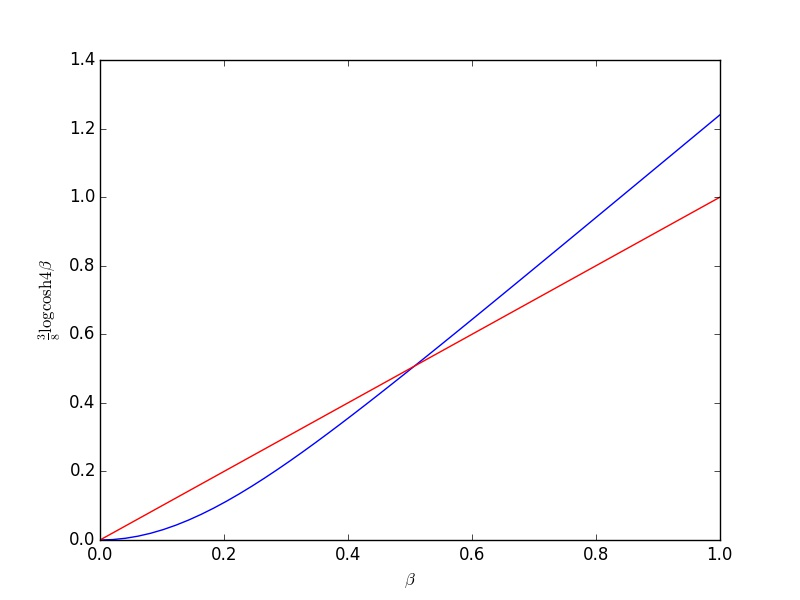
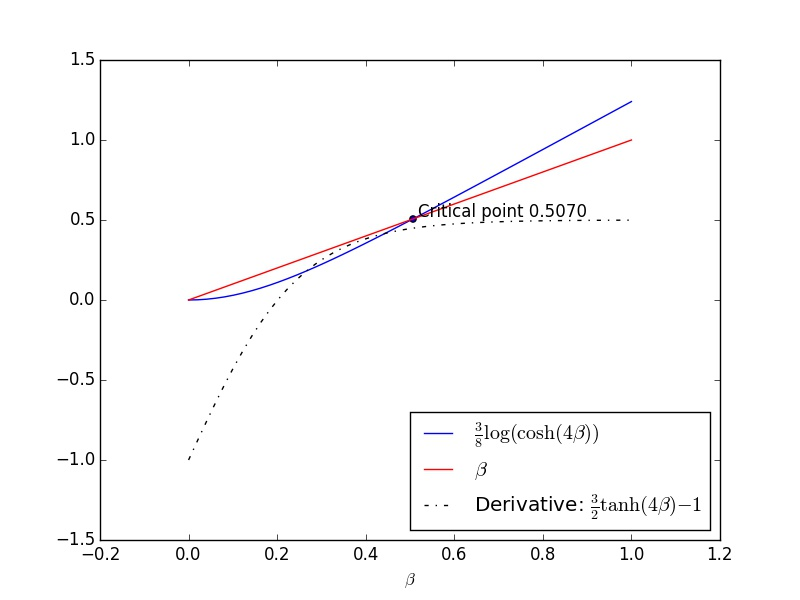
Plot equation for critical point, and show unstable

diff --git a/rn/renormalization.tex b/rn/renormalization.tex
@@ -1156,23 +1156,18 @@ How does model flow as we continue to coarse-grain? This replaces lattice with a
 
 
 \begin{figure}[H]
-	\caption{Solving $\beta=\frac{3}{8} \log{\cosh{4\beta} }$}
-	\begin{subfigure}[t]{0.45\textwidth}
-		\caption{$\beta=\frac{3}{8} \log{\cosh{4\beta} }$}\label{fig:beta}
-		\includegraphics[width=\textwidth]{beta}
-	\end{subfigure}
-	\begin{subfigure}[t]{0.45\textwidth}
-		\caption{Evolution of solution}\label{fig:beta1}
-		\includegraphics[width=\textwidth]{beta1}
-	\end{subfigure}
+	\caption{Solving $\beta=\frac{3}{8} \log{\cosh{4\beta} }$}\label{fig:beta}
+	\includegraphics[width=0.9\textwidth]{beta}
 \end{figure}
 
-Figure \ref{fig:beta1} shows that the mapping $\beta\rightarrow\frac{3}{8} \log{\cosh{4\beta} }$ has three fixed points.
+Figure \ref{fig:beta} shows that the mapping $\beta\rightarrow\frac{3}{8} \log{\cosh{4\beta} }$ has three fixed points.
 \begin{enumerate}
 	\item $\beta=0$: as we zoom out, spins become random over a large area.
 	\item  $\beta=\infty$: as we zoom out, spins become aligned.
 	\item  $\beta=$ critical point (unstable): as we zoom out, things stay the same.
 \end{enumerate}
+
+Since the derivative  $\frac{\partial}{\partial \beta}\big[\frac{3}{8} \log{\cosh{4\beta}}-\beta\big]=\frac{3}{2} \tanh(4\beta)-1$ is positive, the critical point is unstable; $\beta$ flows to $0$ or $\infty$, depending on whether it start below the critical point or above.
 
 One objection is that this is only an approximation. However, in the exact solution (Onsager), critical point$\approx0.44069$; so we didn't do too bad--$\approx0.508$. Also $S_4\approxeq0.05$
 

diff --git a/rn/cp.py b/rn/cp.py
@@ -14,13 +14,45 @@
 # along with GNU Emacs.  If not, see <http://www.gnu.org/licenses/>.
 
 import matplotlib.pyplot as plt, numpy as np,math
-from matplotlib import rc
 
-betas = np.linspace(0,1,50)
-Ss    = [3*math.log(math.cosh(4*beta))/8 for beta in betas]
+def S(beta):
+    return 3*math.log(math.cosh(4*beta))/8
 
-plt.plot(betas,Ss,'b',betas,betas,'r')
-plt.xlabel(r'$\beta$')
-plt.ylabel(r'$\frac{3}{8} \log{\cosh{4\beta}}$')
-plt.savefig('figs/beta.jpg')
-plt.show()
+def plot(beta,S_beta):
+    betas = np.linspace(0,1,50)
+    Ss    = [S(beta) for beta in betas]
+    Ds    = [3*math.tanh(4*beta)/2 - 1 for beta in betas]
+    plt.plot(betas,Ss,'b',label=r'$\frac{3}{8} \log(\cosh(4\beta))$')
+    plt.plot(betas,betas,'r',label=r'$\beta$')
+    plt.plot(betas,Ds,'k',ls='-.',label=r'Derivative: $\frac{3}{2} \tanh(4\beta)-1$')
+    plt.scatter(beta,S_beta)
+    plt.text(beta+0.01,S_beta+0.01,'Critical point {0:.4f}'.format(beta))
+    plt.xlabel(r'$\beta$')
+    plt.legend(loc='lower right')
+
+    plt.savefig('figs/beta.jpg')
+
+def solve(eps=0.1):
+    beta0  = 0
+    S0     = S(beta0)
+    beta1  = 1
+    S1     = S(beta1)
+    beta   = 0.5* (beta0+beta1)
+    S_beta = S(beta)    
+    while beta1-beta0>eps:
+        if S_beta<beta:
+            beta0 = beta
+            S0    = S_beta
+        else:
+            beta1 = beta
+            S1    = S_beta
+        beta   = 0.5* (beta0+beta1)
+        S_beta = S(beta)
+        
+    return (beta,S_beta)
+
+if __name__=='__main__':
+    beta,S_beta = solve(eps=0.00001)
+    plot(beta,S_beta)
+    
+    plt.show()
